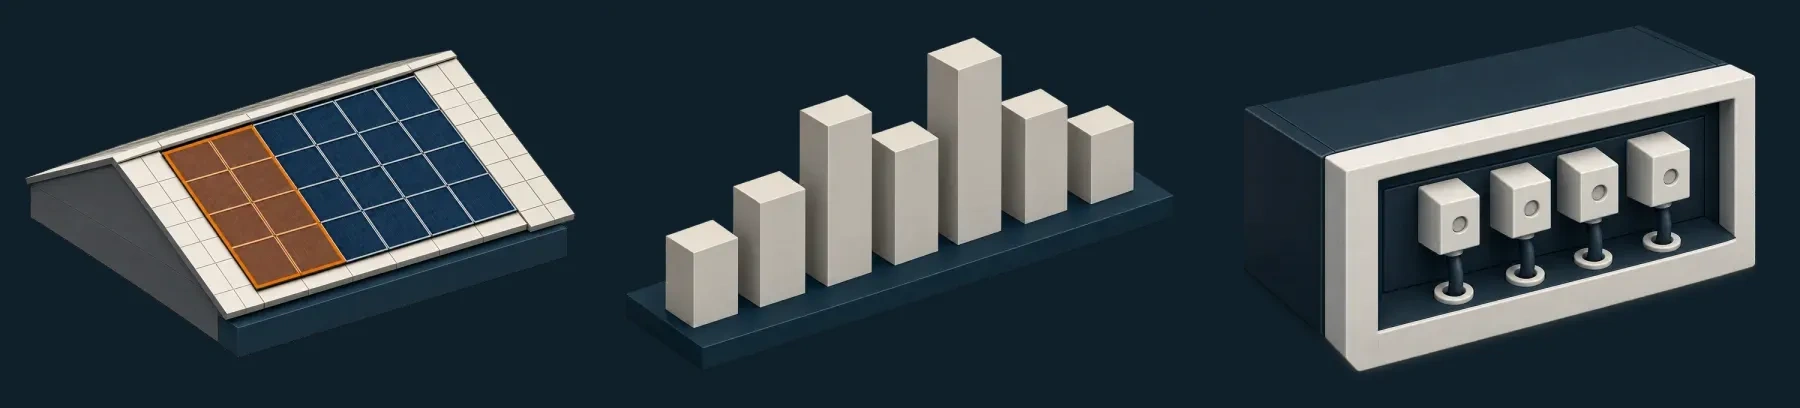
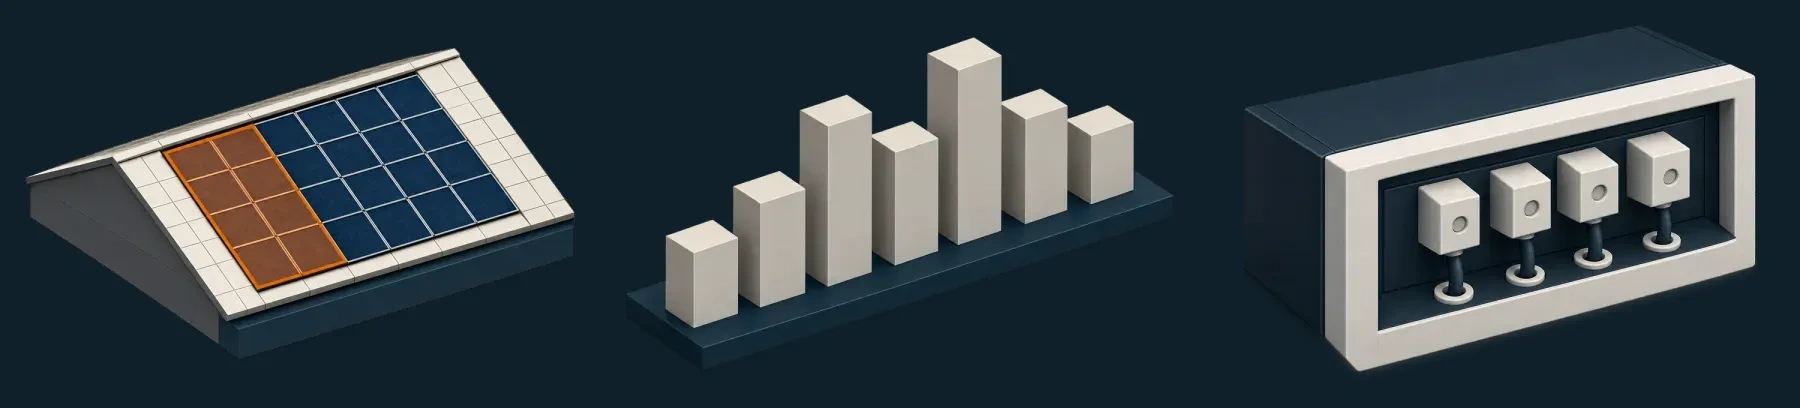
fix: align right roof eave with continuous edge and base
Remove the projecting tab at the lower-right roof border. Review the
encoded asset at normal size and 3x detail. Preserve other approved motifs.

Changed region(s): [[0.0311, 0.1176, 0.3111, 0.7941]]

diff --git a/docs/qa/technical-hero-2026-10-06/roof-correction.md b/docs/qa/technical-hero-2026-10-06/roof-correction.md
@@ -1,5 +1,28 @@
 # Roof graphic correction — 6 October 2026
 
+## Second correction: right eave
+
+The preceding edit closed the left gable but did not remove the projecting tab
+at the lower end of the right pale border. Following the user's precise
+feedback, built-in Imagegen result `exec-c279e584-2300-422a-9050-adcbc383d268`
+trims that corner to the continuous straight eave line. The roof border and
+navy base now terminate in the same right-end plane. The PV array is retained.
+
+The final encoded WebP was checked on navy at normal review size and in the
+3× enlarged `right-eave-detail.webp`. An independent reviewer verified this
+specific corner, not just the overall roof impression. Consumption/connection
+files are still byte-identical; no application code or live deployment changed.
+
+### Exact right-eave edit prompt
+
+Use case: precise-object-edit. Edit this existing transparent architectural PV-roof illustration. Make ONE tightly localized geometry correction at the LOWER-RIGHT roof corner.
+
+The pale strip running down the far RIGHT slope currently extends too far and creates a small stepped tab/tongue past the lower eave edge. This is the specific defect to REMOVE. SHORTEN and trim the bottom end of that right-hand pale border strip so it meets the front/lower eave on ONE continuous perfectly straight diagonal edge. The entire bottom edge of the pale roof, from the lower-left corner to the lower-right corner, must be collinear with no step, notch, protruding rectangular tab, dangling piece or overlapping slab at the right. At the rightmost corner, the eave/fascia, sloping border and dark-blue supporting plinth must terminate cleanly at the SAME right-end plane. Use a precise flush mitred corner. No part of that right eave should extend past the right end of the dark base.
+
+Preserve everything else faithfully: closed solid left gable, roof pitch, camera angle, object size and framing, premium matte off-white/slate/navy palette, subtle light, exactly six columns and four rows of PV modules, orange highlight over the left two columns. Do not change the module array, do not add any trim, gutter, pipe, cutout, new ledge or architectural detail. Preserve genuine transparent background and full silhouette with generous transparent margins. No text or watermark. This should be recognizably the SAME image with only its flawed right eave corner repaired, not a new design.
+
+## Previous correction: closed gable
+
 User feedback: correct the roof in graphics-review.webp; other two graphics approved.
 
 Changed only the roof asset and rebuilt the comparison sheet. The left gable is
